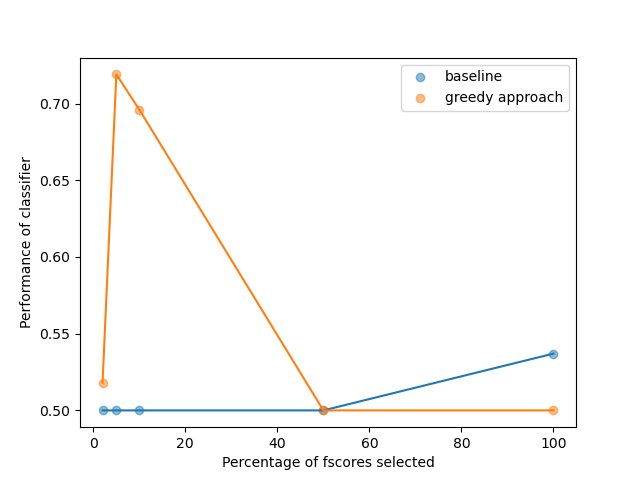
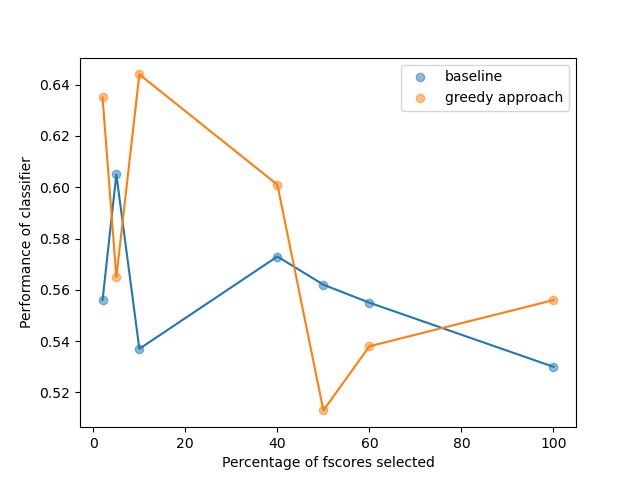
Add node features. Results still oscillating with random seed

diff --git a/graphtools/fc_data/load_data.py b/graphtools/fc_data/load_data.py
@@ -1,4 +1,5 @@
 import sys
+
 sys.path.append('..')
 import numpy as np
 import pandas as pd
@@ -6,23 +7,30 @@ from metrics import fscore
 import matplotlib.pyplot as plt
 from sklearn.preprocessing import StandardScaler
 from sklearn.ensemble import RandomForestClassifier
-from sklearn.model_selection import train_test_split, StratifiedKFold, KFold, GridSearchCV
+from sklearn.svm import SVC
+from sklearn.model_selection import train_test_split, StratifiedKFold, KFold, RandomizedSearchCV
 from funcgraph import BrainGraph
 from paramopt import graph_options
-from sklearn.metrics import balanced_accuracy_score
+from sklearn.metrics import balanced_accuracy_score, make_scorer, log_loss
 import logging
 import os
 import itertools as it
 from metrics import diag_flattened_indices, find_indices
+
 global dir1
+from sklearn.utils.fixes import loguniform
+import autosklearn.classification
+
 dir1 = '/home/shreya/git/Thesis/graphtools/fc_data/'
 handler = logging.handlers.WatchedFileHandler(
-os.environ.get("LOGFILE", f"{dir1}/outputs/sample.log"))
+    os.environ.get("LOGFILE", f"{dir1}/outputs/sample.log"))
 formatter = logging.Formatter(logging.BASIC_FORMAT)
 handler.setFormatter(formatter)
 logger = logging.getLogger('info')
 logger.setLevel(os.environ.get("LOGLEVEL", "INFO"))
 logger.addHandler(handler)
+
+
 # %%
 def make_hist(X_train, y_train, ax):
     """
@@ -42,6 +50,8 @@ def make_hist(X_train, y_train, ax):
             alpha=0.5)
     ax.legend()
     return ax
+
+
 # %%
 def load_files(dir, groups):
     combined_edges = []
@@ -59,57 +69,51 @@ def load_files(dir, groups):
         # print(nodes.shape)
         nodes = pd.DataFrame(nodes)
         # print(nodes.head())
-        nodes['label'] = group
-        nodes_l = np.array(nodes)
+        #nodes['label'] = group
+        #nodes_l = np.array(nodes)
         # print(nodes_l.shape)
-        combined_nodes.extend(nodes_l)
+        combined_nodes.extend(np.array(nodes))
         # print(len(combined_nodes), len(combined_nodes[0]))
     mapping = {'ad': 2, 'hc': 0, 'mci': 1}
     # print(len(combined_nodes), len(combined_nodes[0]))
 
     combined_edges, combined_nodes = pd.DataFrame(combined_edges), pd.DataFrame(combined_nodes,
-                                                                                columns=range(len(combined_nodes[0])))
+                                                                                columns=range(num_nodes))
     combined_edges.iloc[:, -1] = combined_edges.iloc[:, -1].map(mapping)
     combined_nodes = combined_nodes.replace('m00', np.nan)
-    #print(combined_nodes.isna().any(axis=1))
+    # print(combined_nodes.isna().any(axis=1))
     combined_nodes.dropna(axis=0, inplace=True)
+    combined_nodes.columns = [f'nodes_{i}' for i in range(num_nodes)]
     combined_edges = combined_edges.loc[combined_nodes.index, :]
     # Number of subjects in each group
-    #print(combined_edges.isna().any(axis=1))
+    # print(combined_edges.isna().any(axis=1))
     combined_edges.dropna(axis=0, inplace=True)
     combined_nodes = combined_nodes.loc[combined_edges.index]
-    print('Nodes:', combined_nodes.shape)
     logger.info(f'Nodes: {combined_nodes.shape}')
-    print('Edges:', combined_edges.shape)
     logger.info(f'Edges: {combined_edges.shape}')
-    print(mapping)
     logger.info(f'{mapping}')
-    print('Number of subjects in each group:\n', combined_edges.iloc[:, -1].value_counts())
     logger.info(f'Number of subjects in each group:\n {combined_edges.iloc[:, -1].value_counts()}s')
     return combined_edges, combined_nodes
 
 
 def graph_processing(fscores, num_nodes, node_weights, preserved_nodes):
-
     input_graph = BrainGraph(edge='fscores', feature_type='FC', node_wts='given_value',
                              target='AD', max_num_nodes=preserved_nodes)
 
     input_graph.make_graph(fscores, num_nodes=num_nodes)
-    input_graph.delete_per_edges(20) # delete bottom 10% of the edges
+    input_graph.delete_per_edges(20)  # delete bottom 10% of the edges
     input_graph.set_node_labels(node_wts='given_value',
                                 wts=node_weights)  # set the node weights as the mean for the training subjects
 
     input_graph.savefiles('/home/shreya/git/Thesis/gmwcs-solver')
     input_graph.visualize_graph('/home/shreya/git/Thesis/gmwcs-solver', True,
                                 graph_options(color='red', node_size=5, linewidhts=0.1, width=1),
-                                figs=(20,20))
+                                figs=(20, 20))
     input_graph.run_solver('/home/shreya/git/Thesis/gmwcs-solver', max_num_nodes=preserved_nodes)
     print('Nodes in input graph', input_graph.nodes)
 
 
-
 def fscore_hist(combined_edges):
-
     scalar = StandardScaler()
     fscores = fscore(combined_edges, class_col=len(combined_edges.columns) - 1)
     trans_edges = pd.DataFrame(scalar.fit_transform(combined_edges.iloc[:, :-1]))
@@ -123,32 +127,51 @@ def fscore_hist(combined_edges):
     plt.legend()
     plt.show()
 
+
 def fit_classifier(X_train, X_test, y_train, y_test, n_fold, index):
-    cv_inner = KFold(n_splits=3, shuffle=True, random_state=1)
+    cv_inner = KFold(n_splits=5, shuffle=True, random_state=10)
+
     # define the model
-    clf = RandomForestClassifier(random_state=10, n_jobs=-1)
+    clf = SVC(probability=True)
+    space = {'C': loguniform(1e-4, 1, 1e-2, 100),
+             'gamma': loguniform(1e-4, 1e-2, 1e-3),
+             'kernel': ['rbf', 'poly', 'sigmoid', 'linear'],
+             'class_weight': ['balanced', None]}
+    # clf = RandomForestClassifier(random_state=10, n_jobs=-1)
     # define search space
 
-    space = {"max_features": [0.9, 1],
+    '''space = {"max_features": [0.9, 1],
                 "min_samples_split": [30, 40],
                 "max_depth": [4, 5],
                 "random_state": [5, 6],
-                "criterion": ['gini', 'entropy']}
+                "criterion": ['gini', 'entropy']}'''
     # define search
-    search = GridSearchCV(clf, space, scoring='balanced_accuracy', cv=cv_inner, refit=True)
+    search = RandomizedSearchCV(clf, space, scoring=make_scorer(balanced_accuracy_score), cv=cv_inner, refit=True)
     # execute search
     search.fit(X_train.loc[:, index], y_train)
-    #print(X_train.shape, y_train.shape, X_test.shape, y_test.shape)
+    # print(X_train.shape, y_train.shape, X_test.shape, y_test.shape)
     best_model = search.best_estimator_
 
-    #test_score = best_model.score(X_test.loc[:, index], y_test)
+    # test_score = best_model.score(X_test.loc[:, index], y_test)
     y_pred = best_model.predict(X_test.loc[:, index])
-    test_score = balanced_accuracy_score(y_test, y_pred)
+    y_pred = pd.Series(y_pred, X_test.index)
+    # maybe this always gives a 0-1 answer
+    # if 2 in y_test:
+    #    y_pred = y_pred.map({0:0, 1: 2, 1:1})
+    # test_score = balanced_accuracy_score(y_test, y_pred)
 
+    # clf = autosklearn.classification.AutoSklearnClassifier()
+
+    # clf.fit(X_train, y_train)
+
+    # y_pred = clf.predict(X_test)
+    test_score = balanced_accuracy_score(y_test, y_pred)
+    # params = clf.ensemble_nbest
     params = search.best_params_
     logger.info(f'The score on the fold {n_fold} {round(test_score, 3)}')
-    #print(f'The score on the fold {n_fold}:', round(test_score, 3))
+    # print(f'The score on the fold {n_fold}:', round(test_score, 3))
     return test_score, params
+
 
 # %%
 def run_baseline(X_train, X_test, y_train, y_test, fscores, per, n_fold):
@@ -157,25 +180,28 @@ def run_baseline(X_train, X_test, y_train, y_test, fscores, per, n_fold):
     index = []
 
     for i in fscores.index:
-        if fscores[i] >= val:
-
+        if fscores.loc[i] >= val:
             index.append(i)
     test_score, params = fit_classifier(X_train, X_test, y_train, y_test, n_fold, index)
     return test_score, params, index
 
+
 def cv_split(X_train, y_train, train_idx, test_cv_idx):
     scalar = StandardScaler()
+
     x_train_cv, y_train_cv = X_train.iloc[train_idx, :], y_train.iloc[train_idx]
-    x_train_cv = pd.DataFrame(scalar.fit_transform(x_train_cv), columns=x_train_cv.columns)
+    x_train_cv = pd.DataFrame(scalar.fit_transform(x_train_cv), columns=x_train_cv.columns, index=x_train_cv.index)
     x_test_cv, y_test_cv = X_train.iloc[test_cv_idx, :], y_train.iloc[test_cv_idx]
-    x_test_cv = pd.DataFrame(scalar.transform(x_test_cv), columns=x_test_cv.columns)
+    x_test_cv = pd.DataFrame(scalar.transform(x_test_cv), columns=x_test_cv.columns, index=x_test_cv.index)
 
     # print('Shapes:', X_train.shape, y_train.shape, X_test.shape, y_test.shape)
     # select only the upper triangular features due to symmetric matrix
     X_y_uppert = pd.concat([x_train_cv, y_train_cv], axis=1)
-    fscores = fscore(X_y_uppert, class_col=y_train_cv.name)
+    fscores = fscore(X_y_uppert, class_col=X_y_uppert.columns[-1])
+    fscores = fscores.drop(X_y_uppert.columns[-1])
     # print('Fscores shape', fscores.shape)
     return x_train_cv, y_train_cv, x_test_cv, y_test_cv, fscores
+
 
 def find_greedy_features(X_train, X_test, y_train, y_test, n_fold, fscores, max_num_nodes):
     """
@@ -192,9 +218,10 @@ def find_greedy_features(X_train, X_test, y_train, y_test, n_fold, fscores, max_
     # graph is currently upper triangular and needs to be converted into full matrix
     graph = graph + graph.transpose() - 2 * np.diag(graph.diagonal())  # excluding the diagonal
     graph = pd.DataFrame(graph)
-
+    deleted_nodes = []
     while len(graph.iloc[0]) > max_num_nodes:
         node = graph.sum(axis=1).argmin()
+        deleted_nodes.append(node)
         graph = graph.drop([graph.iloc[node].name], axis=0)  # returns the row as series
         graph = graph.drop(graph.iloc[:, node].name, axis=1)  # graph.loc[:, node].name
 
@@ -203,25 +230,29 @@ def find_greedy_features(X_train, X_test, y_train, y_test, n_fold, fscores, max_
         for key in dict_idx.keys():
             if dict_idx[key] == (u, v):
                 graph_idxs.append(key)
+    #init_node_idxs = num_nodes * 0.5 * (num_nodes + 1)  # where the node indices start from
+    for j in range(num_nodes):
+        if j not in deleted_nodes:
+            graph_idxs.append(f'nodes_{j}')
+
     test_score, params = fit_classifier(X_train, X_test, y_train, y_test, n_fold, graph_idxs)
 
     return test_score, params, graph_idxs
 
 
-
-
 def plot_comparison():
     plt.plot(percentages, list(score_by_percentage.values()))
     plt.scatter(percentages, list(score_by_percentage.values()), label='baseline', alpha=0.5)
-    #num_edges = np.array([0.5*(n*(n+1)) for n in num_nodes_preserved])
-    #total_edges = (num_edges**2 + num_edges) * 0.5 * 0.01
+    # num_edges = np.array([0.5*(n*(n+1)) for n in num_nodes_preserved])
+    # total_edges = (num_edges**2 + num_edges) * 0.5 * 0.01
     plt.plot(percentages, list(score_by_nodes.values()))
     plt.scatter(percentages, list(score_by_nodes.values()), label='greedy approach', alpha=0.5)
     plt.xlabel('Percentage of fscores selected')
     plt.ylabel('Performance of classifier')
     plt.legend()
-    plt.savefig(os.path.join(dir1, 'outputs', 'comparison_performance_'+groups[0]+'_'+ groups[1]))
+    plt.savefig(os.path.join(dir1, 'outputs', 'comparison_performance_' + groups[0] + '_' + groups[1]))
     plt.clf()
+
 
 def evaluate(index, X_train, X_test, y_train, y_test, clf):
     """
@@ -249,35 +280,37 @@ def main():
     global i, score_by_percentage, data_dir, num_nodes, dict_idx
     global groups, num_nodes_preserved, score_by_nodes
     data_dir = '/home/shreya/git/Thesis/graphtools/fc_data/data'
+    num_nodes = 52
     for groups in [['hc', 'ad'], ['hc', 'mci']]:
 
         print('Performance for groups', groups)
         combined_edges, combined_nodes = load_files(data_dir, groups=groups)
-        #fscore_hist(combined_edges)  # fscores of the edges
-        #fscore_hist(combined_nodes)  # fscores of the node features
-        num_nodes = len(combined_nodes.columns) - 1  # because there is one column for the label here
+        # fscore_hist(combined_edges)  # fscores of the edges
+        # fscore_hist(combined_nodes)  # fscores of the node features
         assert not sum(combined_edges.isna().any())
-        skf = StratifiedKFold(n_splits=5)
+        skf = StratifiedKFold(n_splits=5, random_state=25, shuffle=True)
 
         dict_idx = find_indices(shape=num_nodes)
         indices = list(dict_idx.keys())
-        X = combined_edges.iloc[:, indices] # removing the redunance of the features
+        X = combined_edges.iloc[:, indices]  # removing the redundance of the features
+        X = pd.concat([X, combined_nodes], axis=1)  # not having the last column with the labels
         y = combined_edges.iloc[:, -1]
-        fscores_all = fscore(pd.concat([X, y], axis=1), class_col=y.name)[:-1]
+        conx = pd.concat([X, y], axis=1)
+        fscores_all = fscore(conx, class_col=conx.columns[-1])[:-1]
         # we do not need the fscores of label with itself
 
-        X_train, X_test, y_train, y_test = train_test_split(X, y, test_size=0.3, stratify=y)
+        X_train, X_test, y_train, y_test = train_test_split(X, y, test_size=0.25, stratify=y, random_state=22)
         X_test = pd.DataFrame(X_test, columns=X.columns)
         X_train = pd.DataFrame(X_train, columns=X.columns)
         y_train = pd.Series(y_train, name=y.name)
         y_test = pd.Series(y_test, name=y.name)
 
         global percentages
-        percentages = [2, 5, 10, 50, 100]
+        percentages = [2, 5, 10, 40, 50, 60, 100]
         num_nodes_preserved = []
         for per in percentages:
-            coeff = [1, 1, (-0.01)*(num_nodes**2 + num_nodes)*per]
-            r = abs(round(np.roots(coeff)[1]))//1  #get the positive root
+            coeff = [1, 1, (-0.01) * (num_nodes ** 2 + num_nodes) * per]
+            r = abs(round(np.roots(coeff)[1])) // 1  # get the positive root
             num_nodes_preserved.append(r)
         score_by_percentage = {key: None for key in percentages}
         score_by_nodes = {node: None for node in num_nodes_preserved}
@@ -294,20 +327,20 @@ def main():
                                                                                      train_idx, test_cv_idx)
                     # To do: ensure the train and test are split in a stratified way
                     score, params, base_idxs = run_baseline(x_train_cv, x_test_cv, y_train_cv,
-                                                        y_test_cv, fscores[:-1], per, i)
+                                                            y_test_cv, fscores, per, i)
 
                     base_scores.append(score)
                     base_params.append(params)
                     greedy_score, greedy_param, greedy_idxs = find_greedy_features(x_train_cv,
                                                                                    x_test_cv, y_train_cv, y_test_cv, i,
-                                                                                    fscores_all, max_num_nodes)
+                                                                                   fscores_all, max_num_nodes)
                     # Number of features in max number of nodes
                     logger.info(f'The number of nodes {max_num_nodes} \n The number of edges preserved: '
                                 f'{len(np.triu_indices(max_num_nodes)[0])}')
                     greedy_scores.append(greedy_score)
                     greedy_params.append(greedy_param)
                     # only the diagonal indices since we are considering the matrix to be symmetric
-                    #graph_processing(fscores[:-1], num_nodes, node_weights, preserved_nodes=20)
+                    # graph_processing(fscores[:-1], num_nodes, node_weights, preserved_nodes=20)
                     i += 1
             avg_score_base, avg_score_greedy = np.mean(np.array(base_scores)), np.mean(np.array(greedy_scores))
             idx_base, idx_greedy = np.argmax(np.array(base_scores)), np.argmax(np.array(greedy_scores))
@@ -315,15 +348,17 @@ def main():
             logger.info(f'The average score on k-fold baseline {round(avg_score_base, 3)}'
                         f' and greedy graph {round(avg_score_greedy, 3)}')
             # now fit the best estimator from the above
-            clf_base = RandomForestClassifier(**base_params, n_jobs=-1)
+            # clf_base = RandomForestClassifier(**base_params, n_jobs=-1)
+            clf_base = SVC(**base_params)
+            # clf_base = base_params
             score_by_percentage[per] = evaluate(base_idxs, X_train, X_test, y_train, y_test, clf_base)
-            clf_greedy = RandomForestClassifier(**greedy_params, n_jobs=-1)
+            # clf_greedy = RandomForestClassifier(**greedy_params, n_jobs=-1)
+            # clf_greedy = greedy_params
+            clf_greedy = SVC(**greedy_params)
             score_by_nodes[max_num_nodes] = evaluate(greedy_idxs, X_train, X_test, y_train, y_test, clf_greedy)
         plot_comparison()
-
 
 
 # %%
 if __name__ == '__main__':
     main()
-

diff --git a/graphtools/fc_data/automl.py b/graphtools/fc_data/automl.py
@@ -3,10 +3,12 @@ import pandas as pd
 from sklearn.model_selection import train_test_split
 from supervised.automl import AutoML
 from sklearn.metrics import log_loss, roc_auc_score, balanced_accuracy_score
+import autosklearn.classification
+
 
 dir = '/home/shreya/git/Thesis/graphtools/fc_data/data'
 j = 1
-f = open('../outputs/test_results.txt', 'w')
+f = open('fc_data/outputs/test_results.txt', 'w')
 for groups in [['hc', 'ad'], ['hc', 'mci']]:
     print('Performance for groups', groups, file=f)
     combined_edges, combined_nodes = load_files(dir, groups=groups)
@@ -25,7 +27,8 @@ for groups in [['hc', 'ad'], ['hc', 'mci']]:
     y = combined_edges.iloc[:, -1]
     X_train, X_test, y_train, y_test = train_test_split(X, y, test_size=0.3, stratify=y, random_state=22)
 
-    automl = AutoML()
+    #automl = AutoML()
+    automl = autosklearn.classification.AutoSklearnClassifier()
     automl.fit(X_train, y_train)
 
     predictions = automl.predict(X_test)
